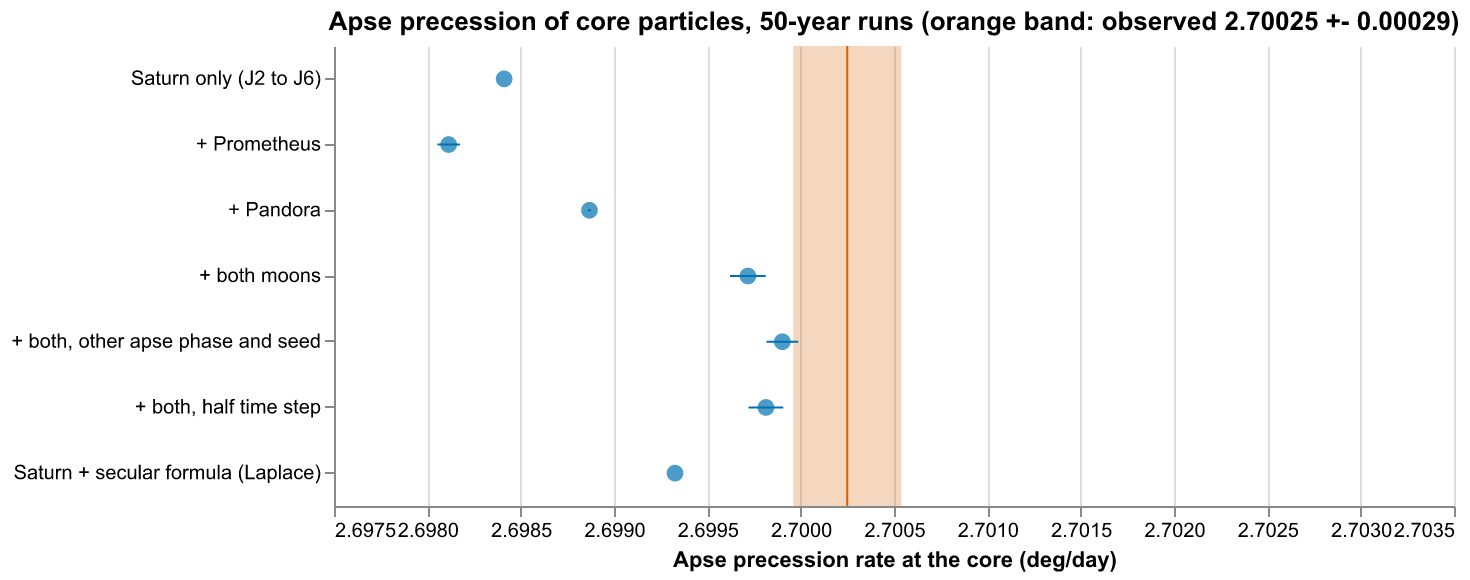
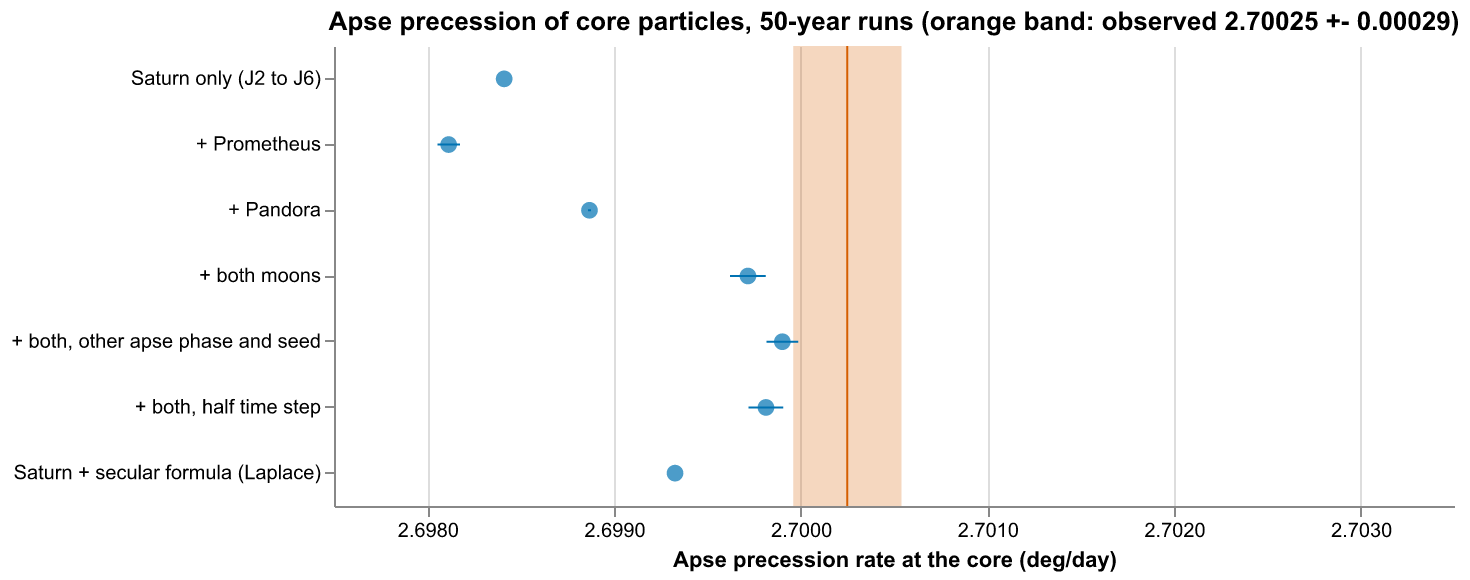
Fix the apse axis labels and the profile legend title (A0 review)
Claude-Session: https://claude.ai/code/session_01TThmH3WvCsnryXisJJTHmE

diff --git a/crates/fring-analysis/python/plots.py b/crates/fring-analysis/python/plots.py
@@ -169,7 +169,7 @@ def profile_chart(tags, r_lo, r_hi, title):
                     "cls:N",
                     scale=alt.Scale(domain=CLASSES, range=CLASS_COLOURS),
                     title="Class of the mean MEGNO: bounded < 1.5 <= regular <= 2.5 < uncertain < 5 <= chaotic",
-                    legend=alt.Legend(orient="bottom", columns=4),
+                    legend=alt.Legend(orient="bottom", columns=4, titleLimit=0),
                 ),
                 tooltip=["r_lo_km", "cls", "fraction"],
             )
@@ -332,7 +332,7 @@ def fig_apse():
         .mark_point(filled=True, size=70, color="#0072B2")
         .encode(
             y=alt.Y("label:N", sort=order, title=None),
-            x=alt.X("rate_deg_per_day:Q", title="Apse precession rate at the core (deg/day)", scale=xs),
+            x=alt.X("rate_deg_per_day:Q", title="Apse precession rate at the core (deg/day)", scale=xs, axis=alt.Axis(format=".4f", tickCount=6, labelOverlap=True)),
             tooltip=["label", "rate_deg_per_day", "se_jackknife"],
         )
     )
